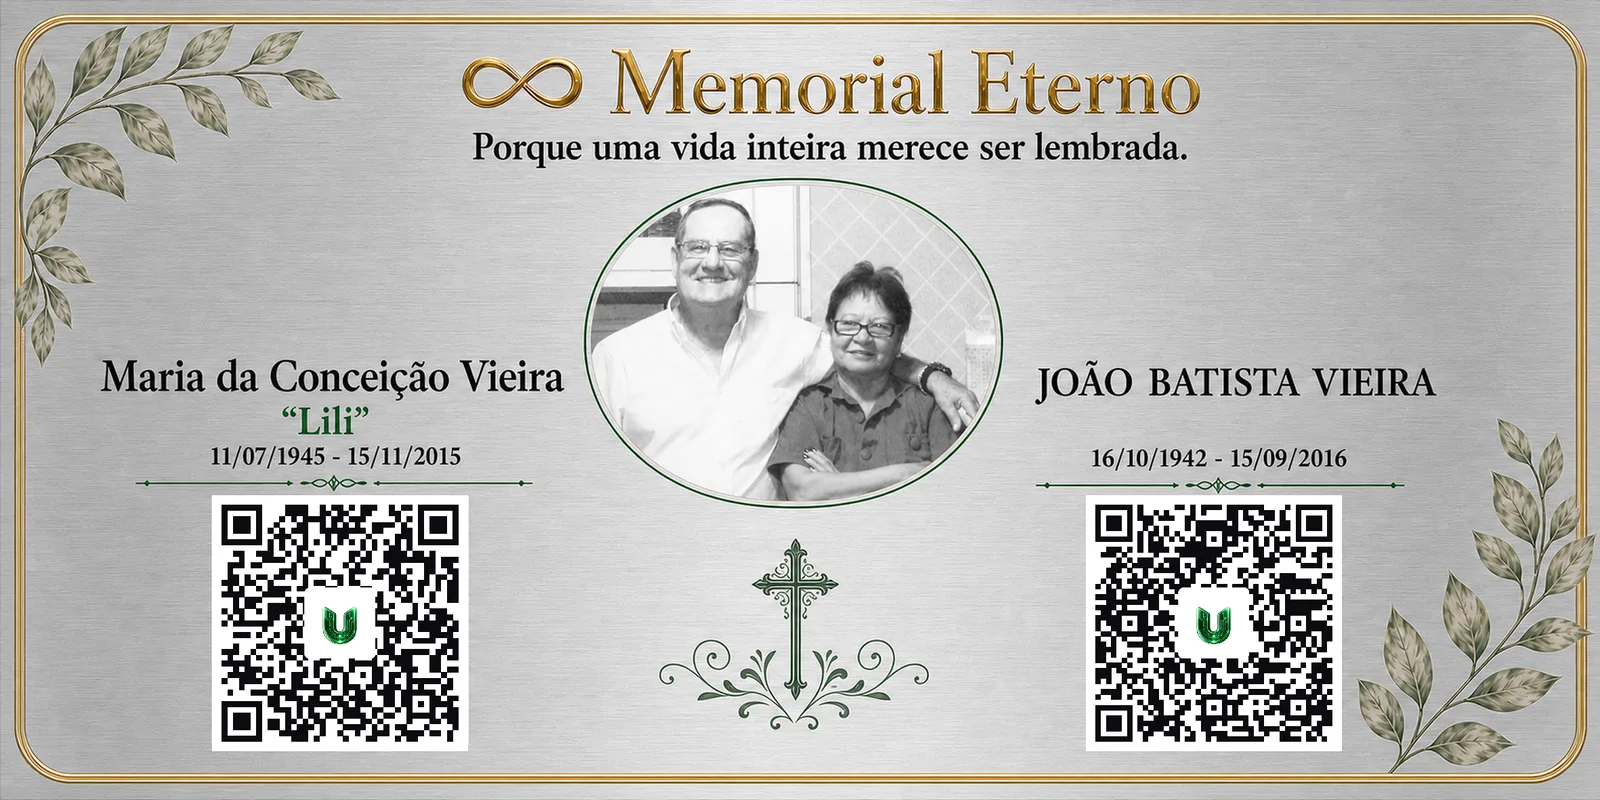
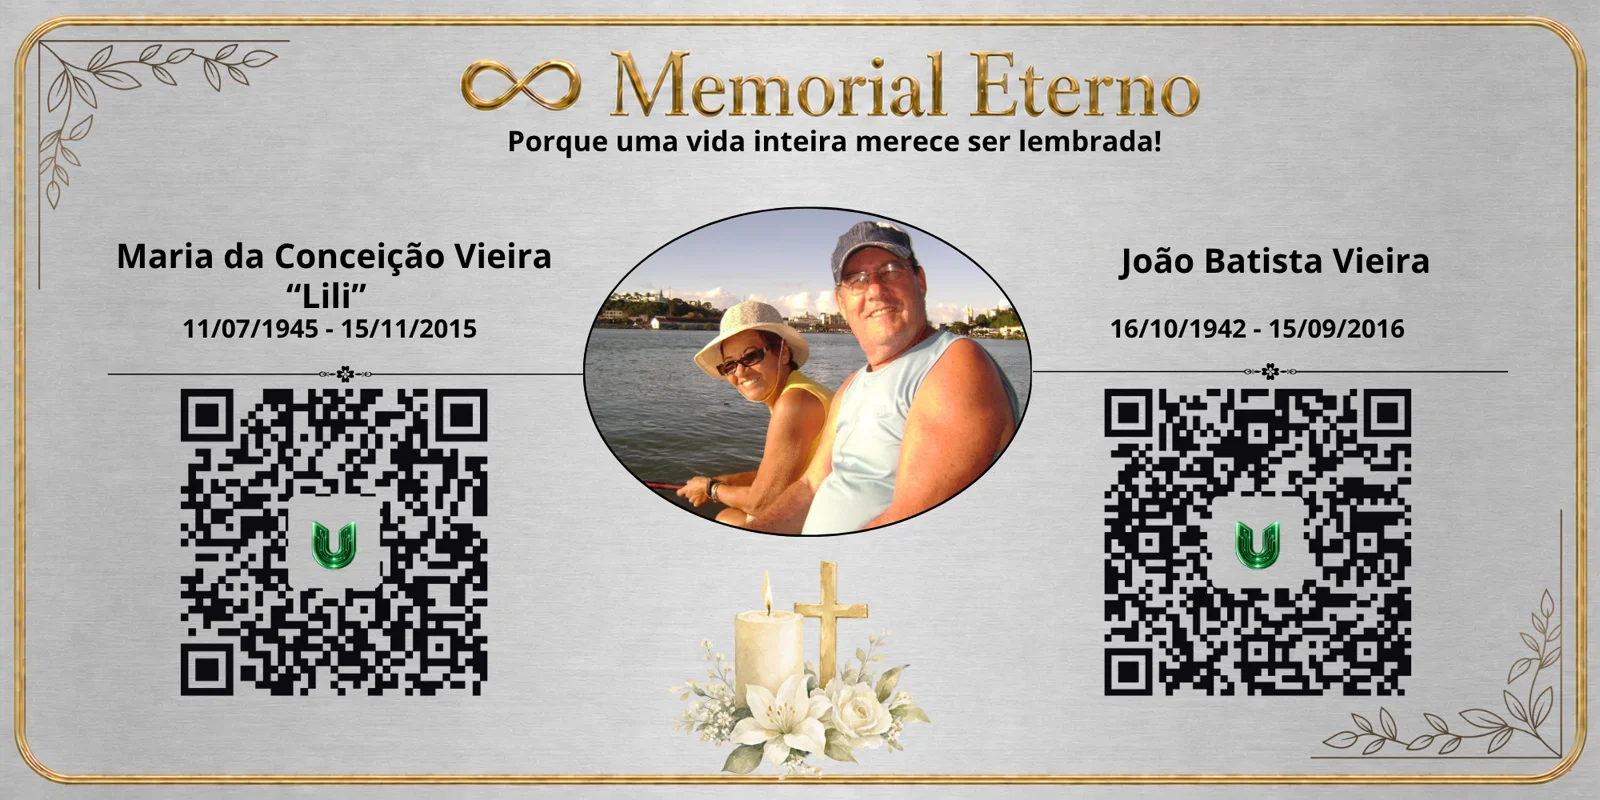
Atualiza cards de Projetos e placa do Memorial Eterno
Substitui as fotos dos 6 cards da secao Projetos por novas artes e
troca a placa exibida na pagina do Memorial Eterno pelo modelo final.

diff --git a/index.html b/index.html
@@ -508,15 +508,11 @@
     </div>
     <div class="grid grid-cols-1 md:grid-cols-2 xl:grid-cols-3 gap-6">
       <article class="project-card glass-card overflow-hidden">
-        <div class="project-preview"><img src="assets/capa-memorial-lili.webp" alt="Capa do Memorial Eterno criado em homenagem a Lili" class="project-image" loading="lazy"><span class="project-label">Homenagem digital real</span></div>
+        <div class="project-preview"><img src="assets/projetos/card-memorial-eterno.webp" alt="Capa do Memorial Eterno criado em homenagem a Lili" class="project-image" loading="lazy"><span class="project-label">Homenagem digital real</span></div>
         <div class="p-7"><span class="status-pill rounded-full px-3 py-1 text-xs">Principal linha de atuação</span><h3 class="font-heading text-2xl font-semibold mt-4">Memorial Eterno</h3><p class="text-secondary text-sm mt-2 leading-relaxed">Histórias, fotografias, mensagens e lembranças reunidas em uma homenagem delicada, acessível pelo QR Code da placa em ACM.</p><div class="project-actions"><a href="memorial-eterno.html" class="project-link project-link-primary">Conheça mais sobre o Memorial Eterno</a><a href="projetos/memorial-eterno/index.html" target="_blank" rel="noopener noreferrer" class="project-link project-link-secondary">Ver demonstração</a></div></div>
       </article>
       <article class="project-card glass-card overflow-hidden">
-        <div class="project-preview">
-          <img src="assets/apps/dentalflow-01.webp" alt="" aria-hidden="true" class="phone-shot-bg" loading="lazy">
-          <img src="assets/apps/dentalflow-01.webp" alt="Painel de métricas do DentalFlow com consultas, taxa de confirmação e faturamento" class="project-image phone-shot-fg" loading="lazy">
-          <span class="project-label">Gestão para clínicas</span>
-        </div>
+        <div class="project-preview"><img src="assets/projetos/card-dentalflow.webp" alt="Painel de métricas do DentalFlow com consultas, taxa de confirmação e faturamento" class="project-image" loading="lazy"><span class="project-label">Gestão para clínicas</span></div>
         <div class="p-7">
           <span class="status-pill rounded-full px-3 py-1 text-xs">Projeto publicado</span>
           <h3 class="font-heading text-2xl font-semibold mt-4">DentalFlow</h3>
@@ -530,11 +526,7 @@
         </div>
       </article>
       <article class="project-card glass-card overflow-hidden">
-        <div class="project-preview">
-          <img src="assets/apps/pulso-utopia-01.webp" alt="" aria-hidden="true" class="phone-shot-bg" loading="lazy">
-          <img src="assets/apps/pulso-utopia-01.webp" alt="Tela inicial do Pulso Utopia" class="project-image phone-shot-fg" loading="lazy">
-          <span class="project-label">Cuidado e rotina de saúde</span>
-        </div>
+        <div class="project-preview"><img src="assets/projetos/card-pulso-utopia.webp" alt="Telas do app Pulso Utopia com medicamentos, adesão do dia e bem-estar" class="project-image" loading="lazy"><span class="project-label">Cuidado e rotina de saúde</span></div>
         <div class="p-7">
           <span class="status-pill rounded-full px-3 py-1 text-xs">Projeto publicado</span>
           <h3 class="font-heading text-2xl font-semibold mt-4">Pulso Utopia</h3>
@@ -548,11 +540,7 @@
         </div>
       </article>
       <article class="project-card glass-card overflow-hidden">
-        <div class="project-preview">
-          <img src="assets/apps/finance-01.webp" alt="" aria-hidden="true" class="phone-shot-bg" loading="lazy">
-          <img src="assets/apps/finance-01.webp" alt="Visão geral de saldo e gastos no app Finance" class="project-image phone-shot-fg" loading="lazy">
-          <span class="project-label">Aplicativo financeiro</span>
-        </div>
+        <div class="project-preview"><img src="assets/projetos/card-financas-pro.webp" alt="Painel do FinançasPro com receitas, despesas, faturas de cartões e gráficos" class="project-image" loading="lazy"><span class="project-label">Aplicativo financeiro</span></div>
         <div class="p-7">
           <span class="rounded-full px-3 py-1 text-xs border border-amber-300/25 text-amber-200">Em desenvolvimento</span>
           <h3 class="font-heading text-2xl font-semibold mt-4">App de Finanças</h3>
@@ -566,11 +554,7 @@
         </div>
       </article>
       <article class="project-card glass-card overflow-hidden">
-        <div class="project-preview">
-          <img src="assets/apps/academia-01.webp" alt="" aria-hidden="true" class="phone-shot-bg" loading="lazy">
-          <img src="assets/apps/academia-01.webp" alt="Painel administrativo do sistema de gestão para academias" class="project-image phone-shot-fg" loading="lazy">
-          <span class="project-label">Gestão completa para academias</span>
-        </div>
+        <div class="project-preview"><img src="assets/projetos/card-gestao-academias.webp" alt="Painel administrativo do sistema de gestão para academias, com laptop e celular" class="project-image" loading="lazy"><span class="project-label">Gestão completa para academias</span></div>
         <div class="p-7">
           <span class="status-pill rounded-full px-3 py-1 text-xs">Projeto publicado</span>
           <h3 class="font-heading text-2xl font-semibold mt-4">Gestão para Academias</h3>
@@ -584,7 +568,7 @@
         </div>
       </article>
       <article class="project-card glass-card overflow-hidden">
-        <div class="project-preview"><img src="assets/identidades-ficticias.webp" alt="Estudos fictícios de logos e identidades visuais" class="project-image" loading="lazy"><span class="project-label">Marca e identidade</span></div>
+        <div class="project-preview"><img src="assets/projetos/card-logos-identidades.webp" alt="Estudos fictícios de logos e identidades visuais" class="project-image" loading="lazy"><span class="project-label">Marca e identidade</span></div>
         <div class="p-7"><span class="rounded-full px-3 py-1 text-xs border border-white/15 text-zinc-300">Estudos autorais fictícios</span><h3 class="font-heading text-2xl font-semibold mt-4">Logos e Identidades Visuais</h3><p class="text-secondary text-sm mt-2 leading-relaxed">Conceitos de marca com logo, paleta, tipografia e aplicações criados para demonstrar diferentes possibilidades visuais.</p><div class="project-actions"><a href="identidades-visuais.html" class="project-link project-link-primary">Conheça mais sobre Logos e Identidades</a><a href="assets/identidades-ficticias.webp" target="_blank" rel="noopener noreferrer" class="project-link project-link-secondary">Abrir galeria</a></div></div>
       </article>
     </div>
